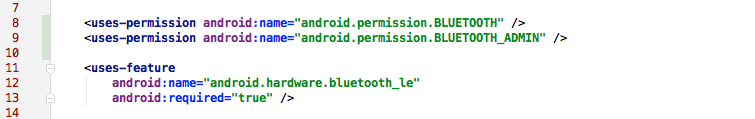
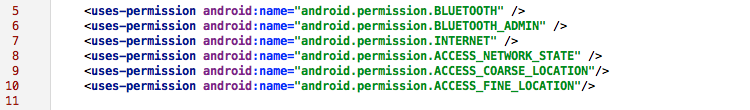
Updated README

Changed region(s): [[0.0, 0.0273, 0.7667, 1.0], [0.092, 0.4636, 0.828, 0.8727]]

diff --git a/README.md b/README.md
@@ -4,9 +4,9 @@
 
 Beaconstac SDK is an easy way to enable proximity marketing and location analytics through an iBeacon-compliant BLE network. 
 
-<!--## Documentation-->
+## Documentation
 
-<!--Please refer to the API documentation on the [Beaconstac developer hub](https://beaconstac.github.io/Android-SDK/).-->
+Please refer to the API documentation on the [Beaconstac developer hub](https://beaconstac.github.io/Android-SDK/).
 
 ## Integration with your existing project in Android Studio
 
@@ -21,38 +21,83 @@ Beaconstac SDK is an easy way to enable proximity marketing and location analyti
 4. In the `build.gradle` file of the app, add the following in the dependencies section:
 
         compile (name: 'beaconstac-release', ext: 'aar')
+        compile 'com.mcxiaoke.volley:library:1.0.16'
+	    compile 'com.google.android.gms:play-services:7.5.0'
 ![](images/dependencies.png "Dependencies")
 5. Refresh all Gradle projects.
-6. Add the `BLUETOOTH` and `BLUETOOTH_ADMIN` permissions to app manifest:
+6. Create a file `beaconstac.xml` in the `values` folder containing configurations for Beaconstac SDK. 
+
+		<?xml version="1.0" encoding="utf-8"?>
+        <resources>
+            <!-- whether rule processing is enabled -->
+            <bool name="ruleProcessingEnabled">true</bool>
+            
+            <!-- time interval between rule syncs -->
+            <integer name="ruleSyncInterval">86400</integer>
+            
+            <!-- events for which rules would be processed -->
+            <string-array name="ruleEvents">
+                <item>CAMPED</item>
+                <item>EXITED</item>
+            </string-array>
+
+            <!-- whether analytics is enabled -->
+            <bool name="analyticsEnabled">true</bool>
+            
+            <!-- time interval between analytics posting -->
+            <integer name="analyticsPostInterval">900</integer>
+
+            <!-- Beaconstac API token -->
+            <string name="api_key"></string>
+            
+            <!-- Organization id -->
+            <integer name="organization_id">0</integer>
+        </resources>
+7. Add the following permissions to app manifest:
 
         <uses-permission android:name="android.permission.BLUETOOTH" />
         <uses-permission android:name="android.permission.BLUETOOTH_ADMIN" />
+        <uses-permission android:name="android.permission.INTERNET" />
+        <uses-permission android:name="android.permission.ACCESS_NETWORK_STATE" />
+        <uses-permission android:name="android.permission.ACCESS_COARSE_LOCATION"/>
+        <uses-permission android:name="android.permission.ACCESS_FINE_LOCATION"/>
+
 ![](images/permissions.png "Permissions")
-7. Add the Beaconstac BLEService to your app manifest:
+8. Add the Beaconstac BLEService to your app manifest:
 
         <service android:name="com.mobstac.beaconstac.core.MSBLEService" android:enabled="true"/>
 ![](images/bleservice.png "BLEService")
-8. Should you choose to implement your own BroadcastReceiver (required if beacon detection has to work when the app is not running), extend `com.mobstac.beaconstac.core.BeaconstacReceiver` class and implement methods to handle the `rangedBeacons`, `campedOnBeacon` and `exitedBeacon` events. The `BeaconstacExample` app contains an example of each type - directly using `BeaconstacReceiver` in the activity (this will require registering and unregistering it to receive intents in the activity itself), and extending `BeaconstacReceiver` and registering it to receive `actions` in the app manifest.
-9. Add the beacon actions to app manifest. From the `BeaconstacExample` app:
+9. Should you choose to implement your own BroadcastReceiver (required if beacon detection has to work when the app is not running), extend `com.mobstac.beaconstac.core.BeaconstacReceiver` class and implement methods to handle the `rangedBeacons`, `campedOnBeacon`, `exitedBeacon`, `triggeredRule`, `enteredRegion` and `exitedRegion` events. The `BeaconstacExample` app contains an example of each type - directly using `BeaconstacReceiver` in the activity (this will require registering and unregistering it to receive intents in the activity itself), and extending `BeaconstacReceiver` and registering it to receive `actions` declared in the app manifest.
+10. Add the Beaconstac-provided actions in the app manifest that you wish to listen for, in your BroadcastReceiver. From the `BeaconstacExample` app manifest:
 
         <receiver android:name=".BeaconstacExampleReceiver" android:exported="false">
             <intent-filter>
-                <action android:name="com.mobstac.beaconstac.intent.action.RANGED" />
-                <action android:name="com.mobstac.beaconstac.intent.action.EXITED" />
-                <action android:name="com.mobstac.beaconstac.intent.action.CAMPED" />
-            </intent-filter>
+                <action android:name="com.mobstac.beaconstac.intent.action.RANGED_BEACON" />
+                <action android:name="com.mobstac.beaconstac.intent.action.CAMPED_BEACON" />
+                <action android:name="com.mobstac.beaconstac.intent.action.EXITED_BEACON" />
+                <action android:name="com.mobstac.beaconstac.intent.action.TRIGGERED_RULE" />
+                <action android:name="com.mobstac.beaconstac.intent.action.ENTERED_REGION" />
+                <action android:name="com.mobstac.beaconstac.intent.action.EXITED_REGION" />            </intent-filter>
         </receiver>
 ![](images/receiver.png "Receiver")
-10. Add values for UUID, region_indentifier filter to `strings.xml`:
+11. Add `provider` to the manifest. If you implement your own ContentProvider, please extend `com.mobstac.beaconstac.provider.MSContentProvider`.
 
-        <!-- Override the defaults -->
-        <string name="filter_uuid"><!-- UUID to filter beacons by --></string>
-        <string name="region_identifier"><!-- unique identifier for beacons --></string
-        <!-- Optional: Override text message to be displayed when Bluetooth is disabled -->
-        <string name="ble_disabled_text">Bluetooth is disabled. Beacon detection would not work.</string>
-![](images/resources.png "Resources")
-11. To start ranging beacons, call `startService` on `com.mobstac.beaconstac.core.MSBLEService` in the `onCreate` method of the Application or MainActivity.
+		<provider
+            android:name="com.mobstac.beaconstac.provider.MSContentProvider"
+            android:authorities="@string/provider"
+            android:enabled="true"
+            android:exported="false"
+            android:multiprocess="true"
+            android:syncable="true" >
+        </provider>
+12. To monitor beacon regions, configure the `UUID` and `region_identifier`.
 
+        // set region parameters (UUID and unique region identifier)
+        Beaconstac.getInstance(this)
+	            .setRegionParams("F94DBB23-2266-7822-3782-57BEAC0952AC",
+                "com.mobstac.beaconstacexample");
+13. Call `startService` on `com.mobstac.beaconstac.core.MSBLEService` in the `onCreate` method of the Application or MainActivity after configuring the `UUID` and `region_identifier` as mentioned in the last step.
+
+        // start MSBLEService
         startService(new Intent(this, MSBLEService.class));
-![](images/startservice.png "Start Service")
-12. You can find more information and example usage in the `BeaconstacExample` app contained in the `examples` directory of this repo.
+14. You can find more information and example usage in the `BeaconstacExample` app contained in the `examples` directory of this repo. Remember to set `organization_id` and `api_key` in `beaconstac.xml`.
